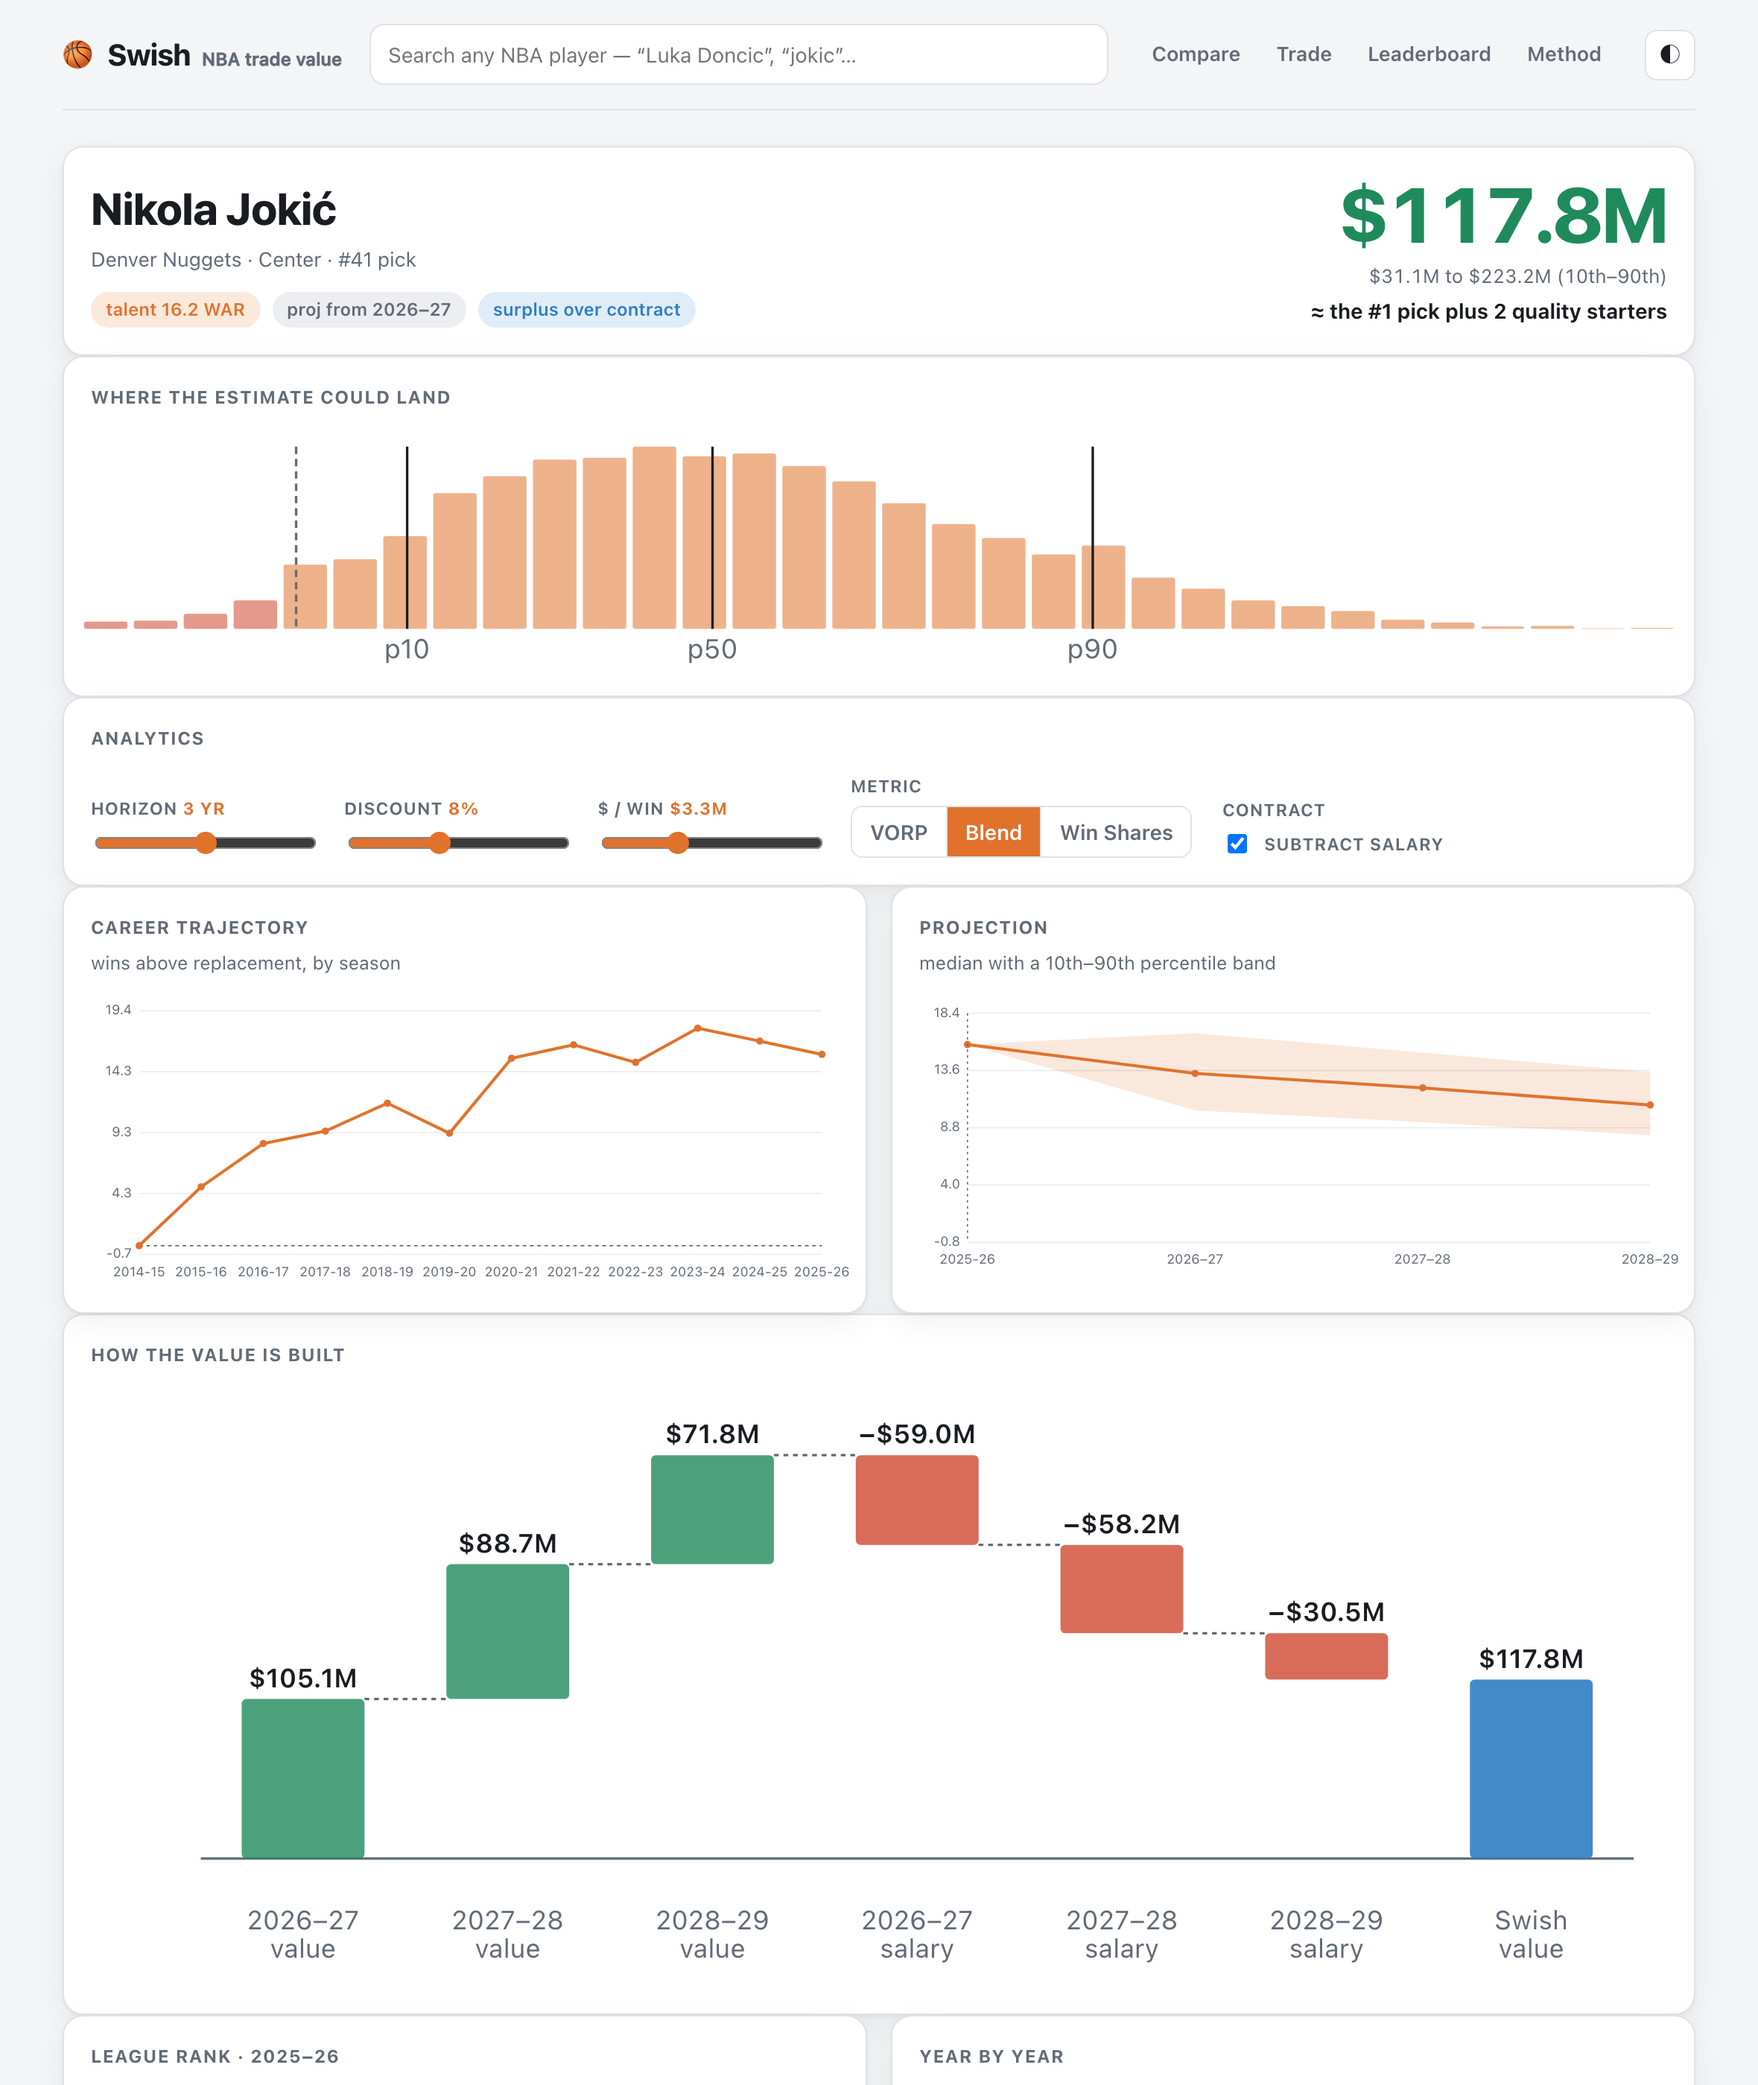
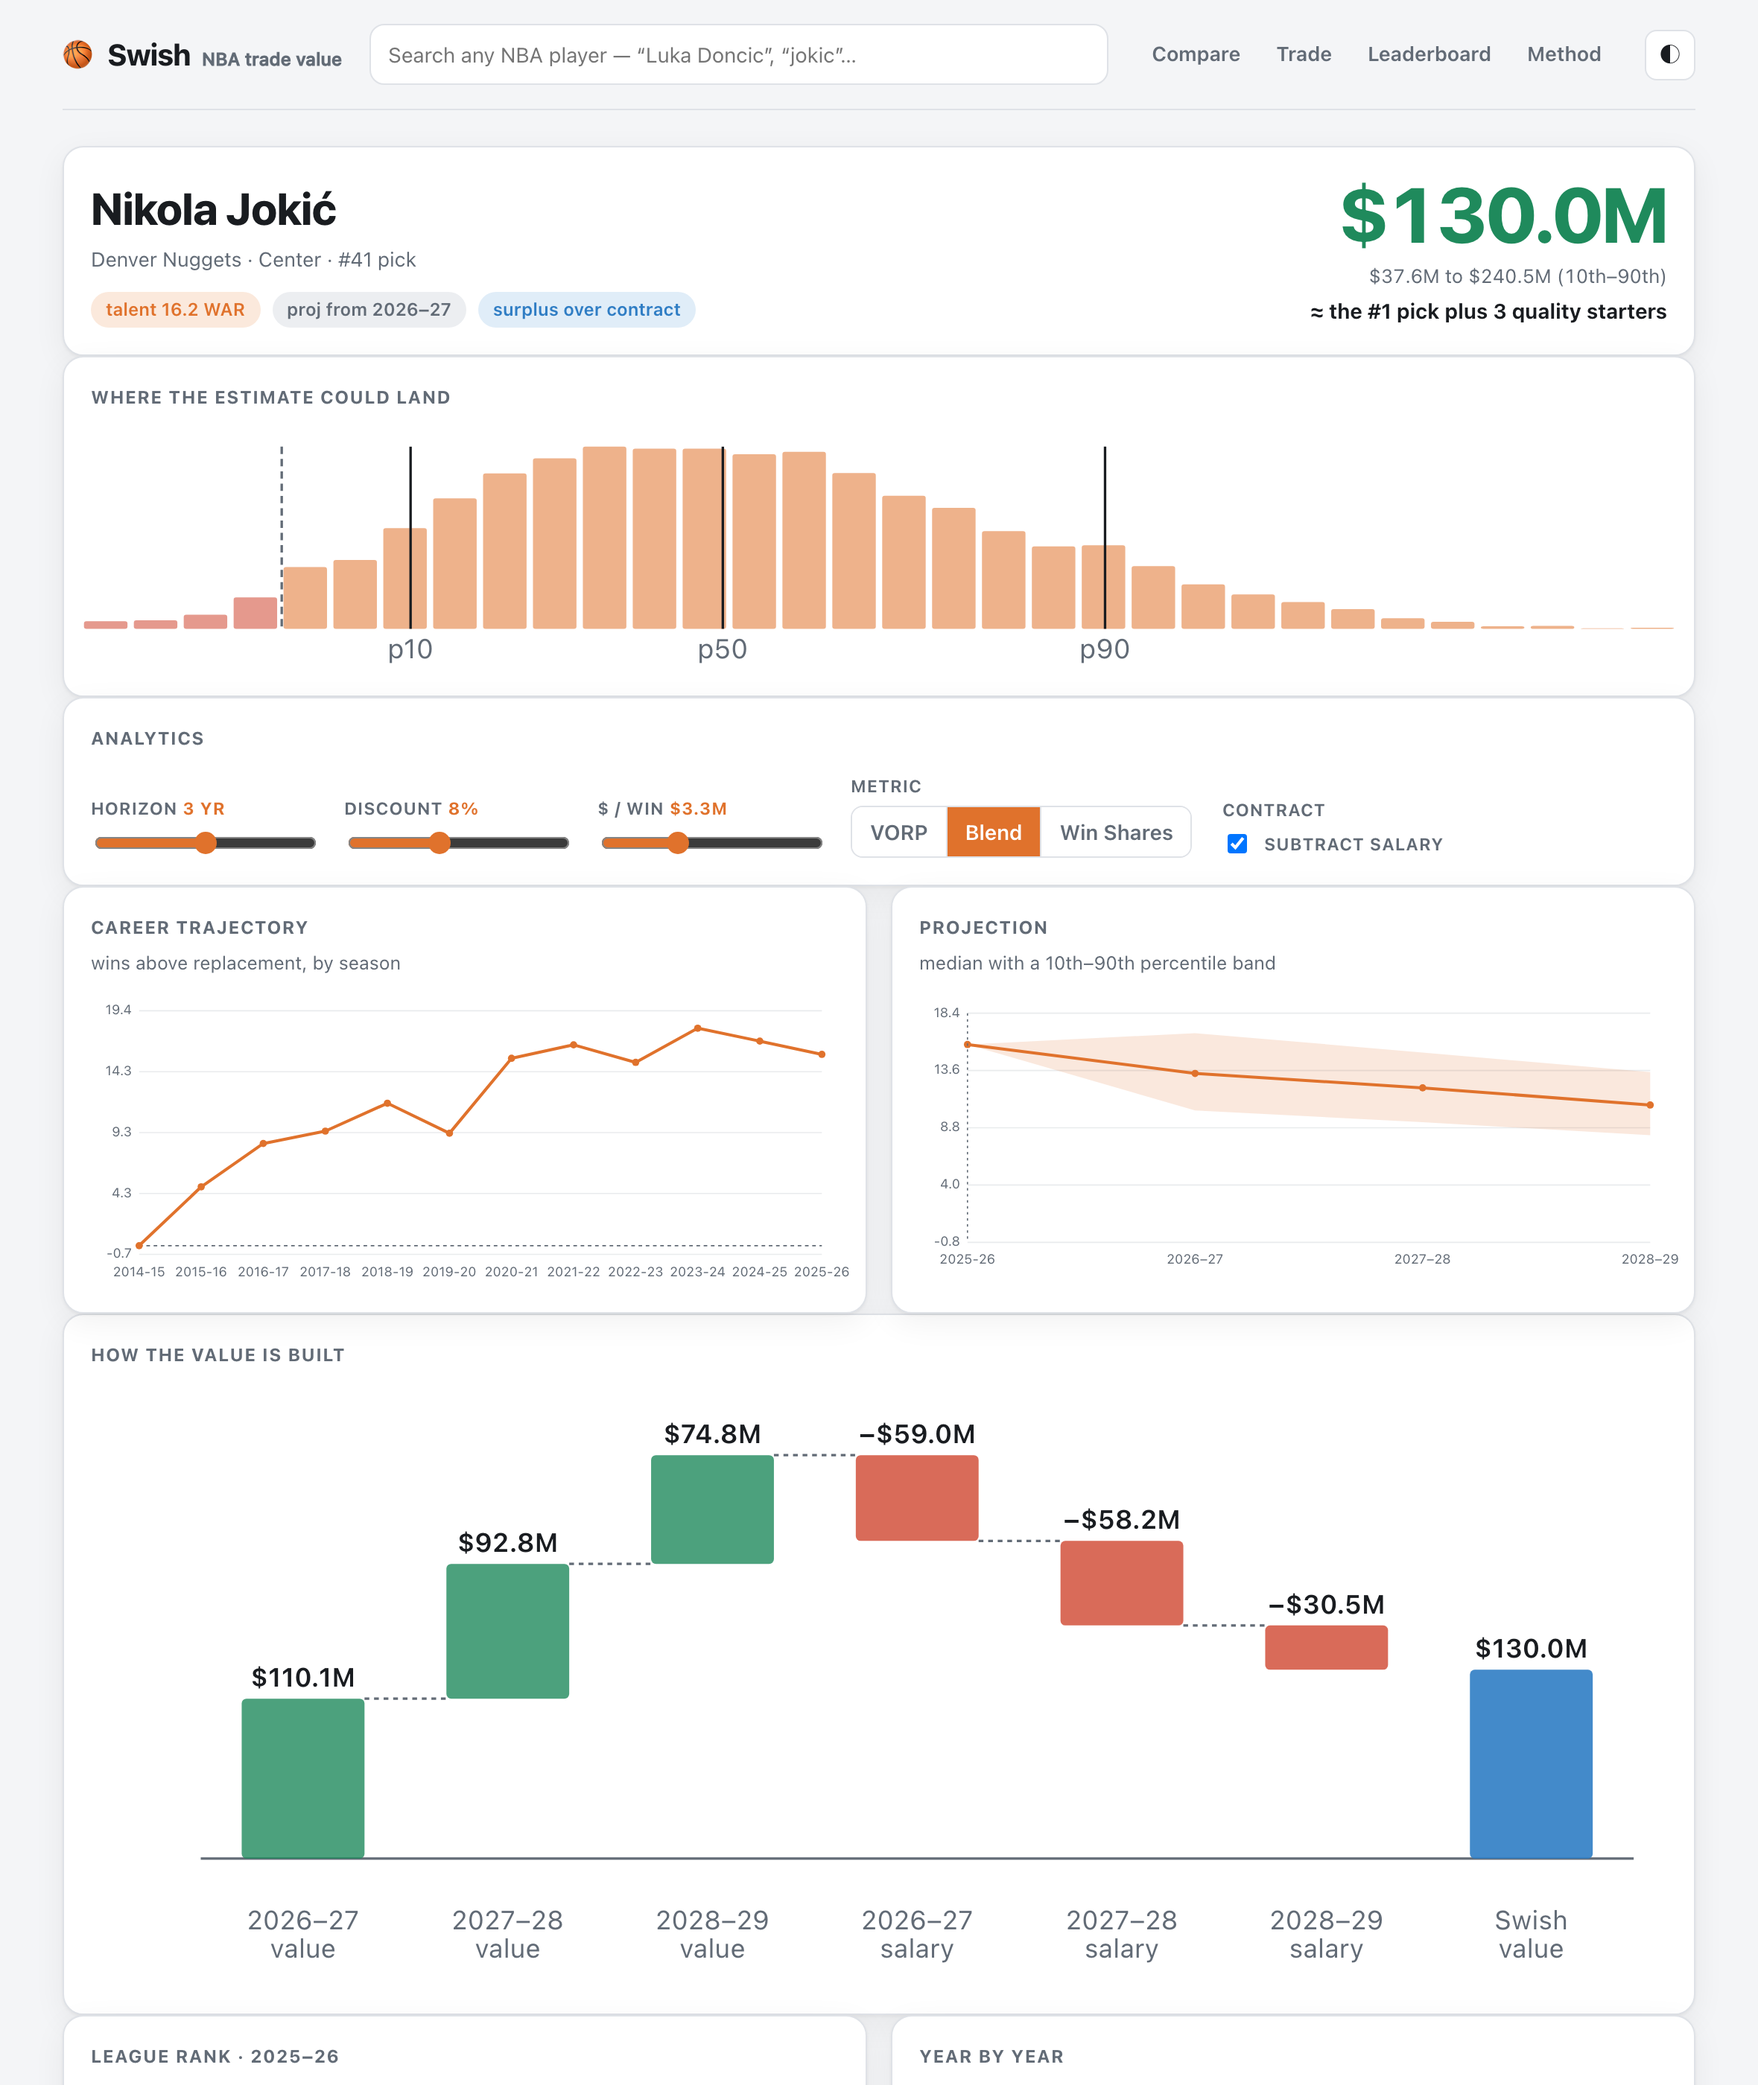
Tune star premium (0.13/2.8); explain negative surplus in the notes
Also: compare table shows current age; refreshed screenshots.

diff --git a/swish/web/app.js b/swish/web/app.js
@@ -325,7 +325,7 @@ async function renderCompare(idsRaw) {
   players.forEach((p) => {
     tb.append(h("tr", {},
       h("td", {}, p.player.name),
-      h("td", {}, p.projection[0].age),
+      h("td", {}, p.projection[0].age - 1),
       h("td", {}, F.war(p.talent.war)),
       h("td", { class: p.swish_value >= 0 ? "pos" : "neg" }, F.millions(p.swish_value)),
       h("td", { class: "muted" }, `${F.millions(p.band.p10)} – ${F.millions(p.band.p90)}`),

diff --git a/swish/model/pipeline.py b/swish/model/pipeline.py
@@ -92,6 +92,15 @@ def evaluate(
         pcts = player_percentiles(last, context)
 
     notes = _notes(card, talent, contract, p, use_contract, effective_contract)
+    if effective_contract and breakdown.surplus_value < 0 and talent.war > 5.0:
+        annual = breakdown.salary_value / max(1, len(breakdown.years))
+        notes.insert(
+            0,
+            f"This is a surplus figure. {card.bio.name} is a good player — his projected "
+            f"production is worth {breakdown.production_value / 1e6:.0f}M over the horizon — "
+            f"but his salary (~{annual / 1e6:.0f}M/yr) exceeds that. Turn off 'subtract "
+            "salary' for on-court value alone.",
+        )
 
     return Valuation(
         player=card.bio,

diff --git a/swish/model/params.py b/swish/model/params.py
@@ -98,8 +98,8 @@ class Params:
     #: a title). Marginal $/win rises linearly for production above an average
     #: starter, capped. baseline in WAR, slope per WAR, and the ceiling multiple.
     star_premium_baseline: float = 2.0
-    star_premium_slope: float = 0.12
-    star_premium_cap: float = 2.7
+    star_premium_slope: float = 0.13
+    star_premium_cap: float = 2.8
     #: annual salary-cap growth used to inflate future $/win and cap holds
     cap_growth: float = 0.07
     #: a win this season is worth more to a team than a win in three years
